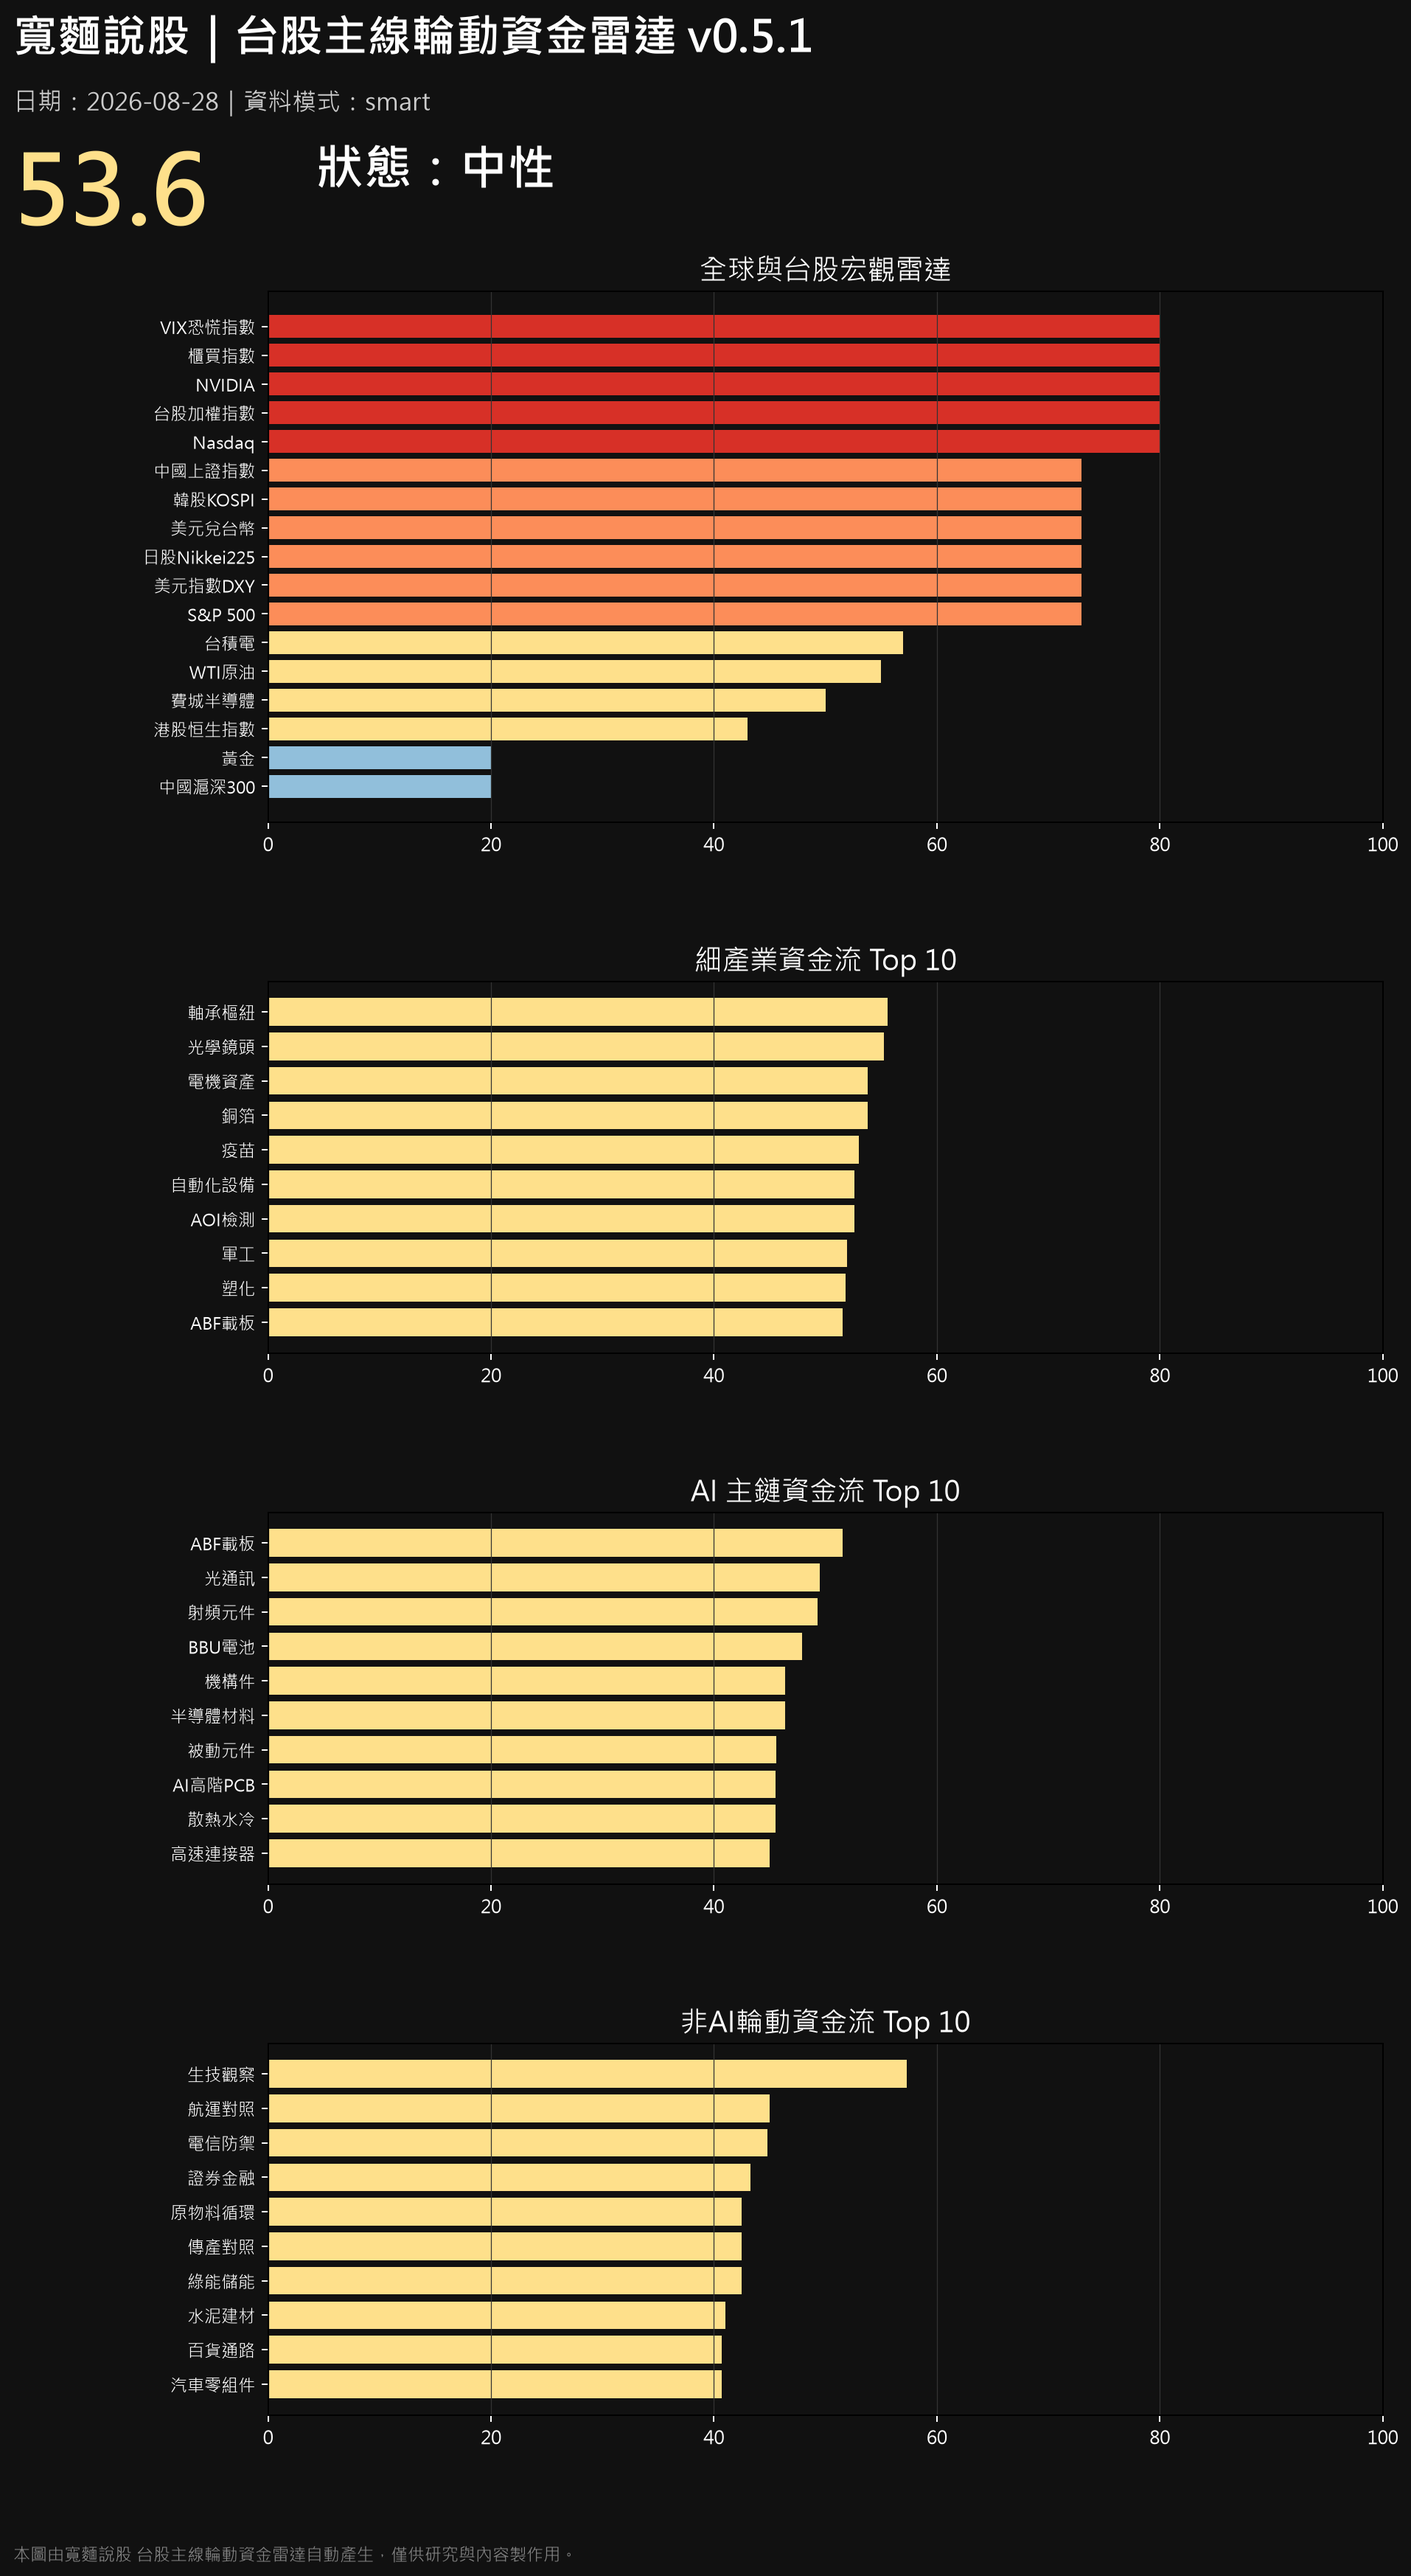
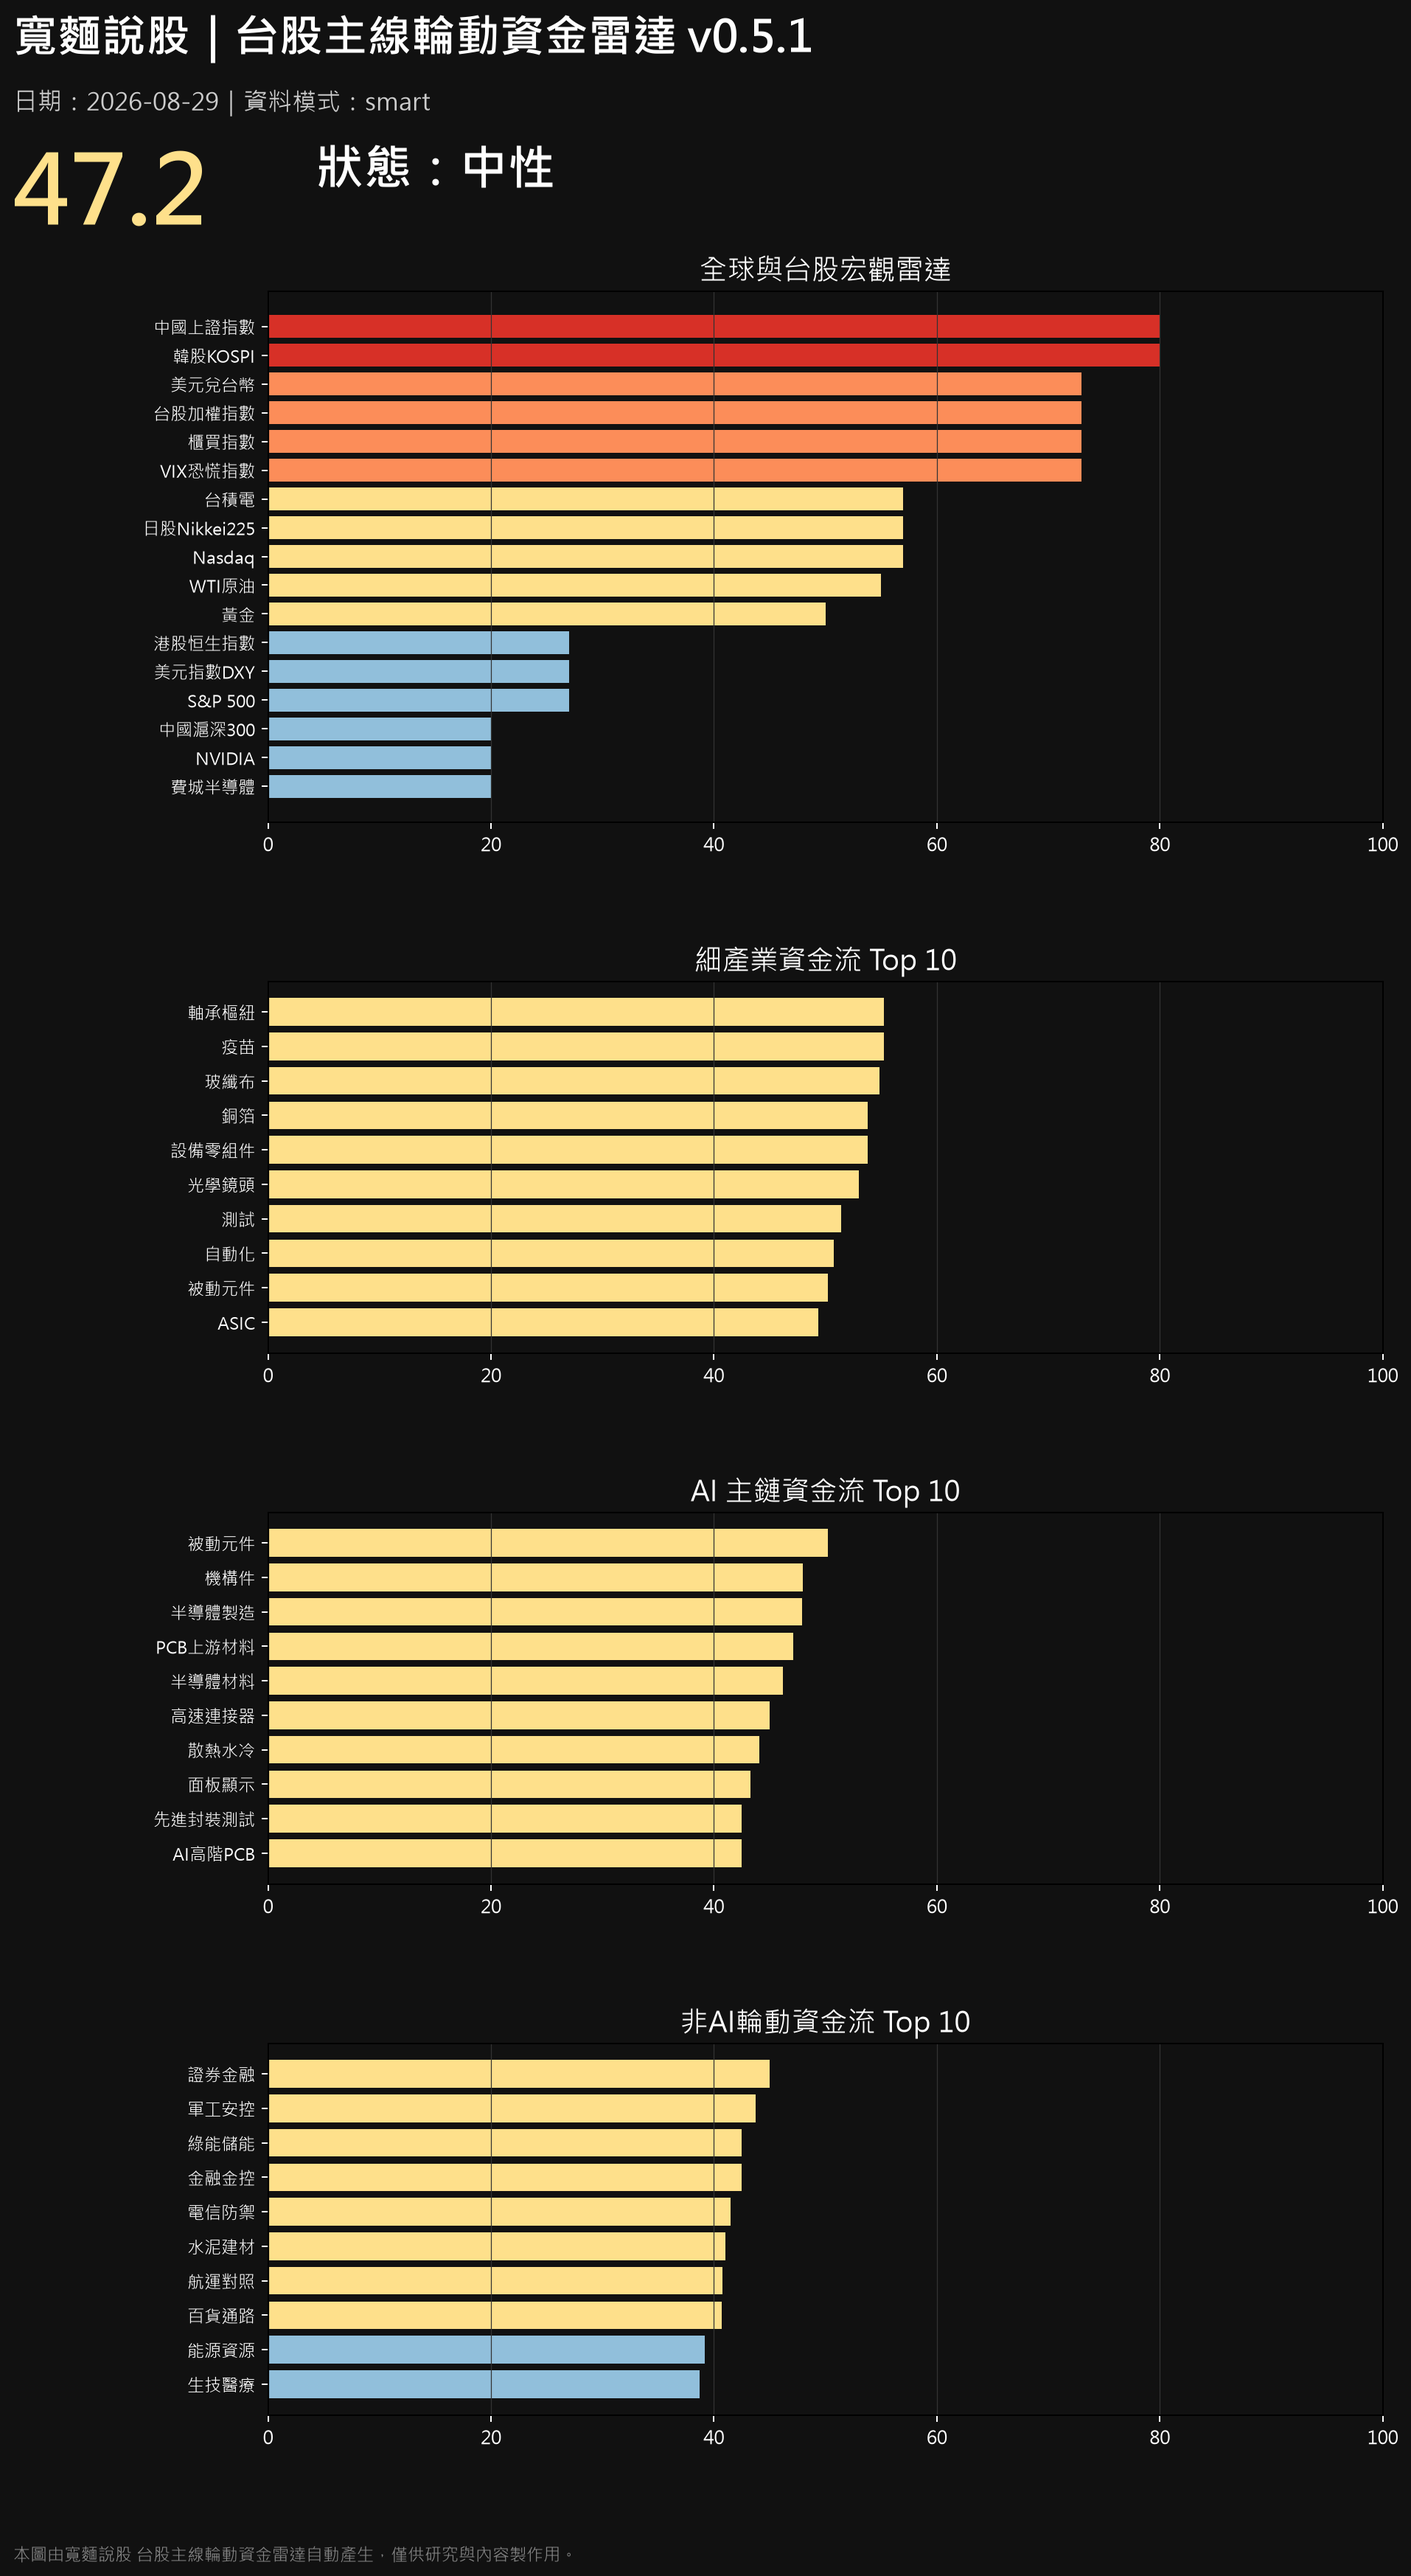
auto update radar chart 週六 2026/08/29  7:28:03.82

diff --git a/index.html b/index.html
@@ -122,7 +122,7 @@
     <section class="hero">
       <div class="brand">寬麵說股｜股海說書人</div>
       <h1>台股主線輪動資金雷達</h1>
-      <div class="updated">最後更新：2026-08-28 07:28:03</div>
+      <div class="updated">最後更新：2026-08-29 07:28:03</div>
       <div class="notice">
         每日追蹤 AI 主鏈、非AI輪動、宏觀風險與族群資金流。<br>
         本圖卡僅供研究與內容製作用，非投資建議。
@@ -130,11 +130,11 @@
     </section>
 
     <section class="dashboard-wrap">
-      <img class="dashboard" src="dashboard.png?v=20260828" alt="寬麵說股 台股主線輪動資金雷達">
+      <img class="dashboard" src="dashboard.png?v=20260829" alt="寬麵說股 台股主線輪動資金雷達">
     </section>
 
     <div class="actions">
-      <a class="btn" href="dashboard.png?v=20260828" target="_blank">開啟原圖</a>
+      <a class="btn" href="dashboard.png?v=20260829" target="_blank">開啟原圖</a>
     </div>
 
     <div class="footer">
